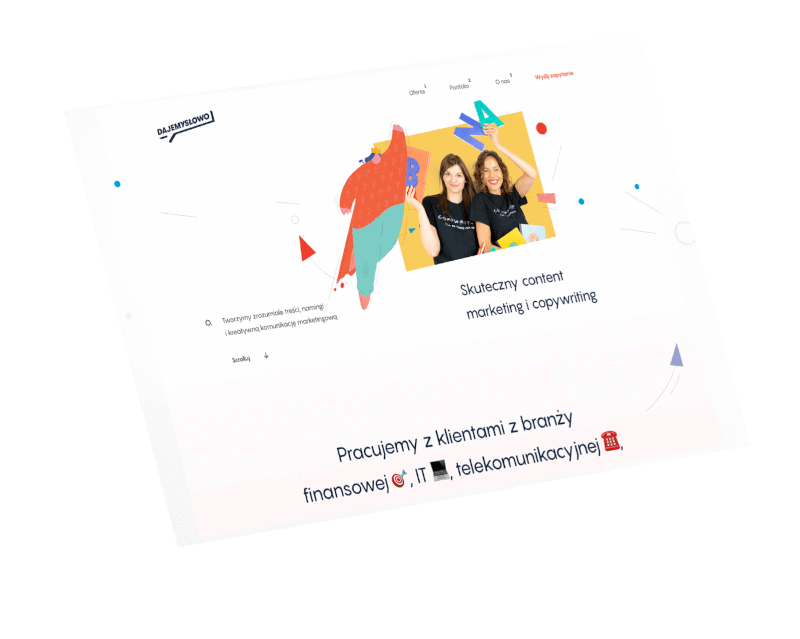
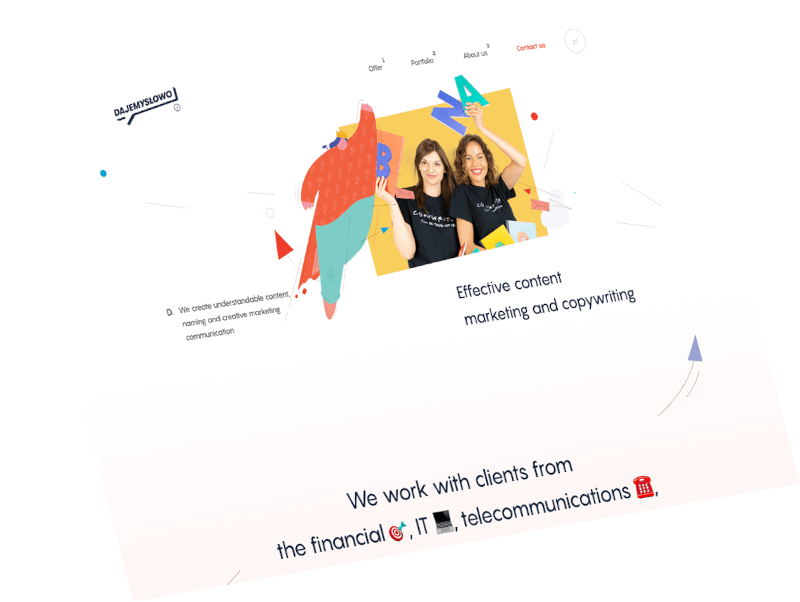
Change home jamstack img to english and og:image to new

diff --git a/_includes/head.html b/_includes/head.html
@@ -12,7 +12,7 @@
   <meta name="google-site-verification" content="hN08h2wKl7pGAbXTpkyglvv4VdgIBfm5TAGozNPUhJM" />
   <meta property="og:title"  content="{% if page.title %}{{ page.title }}{% else %}{{ site.title }}{% endif %}" >
   <meta property="og:description"  content="{% if page.description %}{{ page.description }}{% else %}{{ site.description }}{% endif %}" >
-  <meta property="og:image" content="{% if page.image %}{{ site.url }}{{ page.image }}{% else %}{{ site.url }}/assets/images/ogfacebook.png{% endif %}">
+  <meta property="og:image" content="{% if page.image %}{{ site.url }}{{ page.image }}{% else %}{{ site.url }}/assets/images/ogfacebook.jpg{% endif %}">
   <meta property="og:url" content="{% if page.permalink %}{{ page.permalink }}{% else %}{{ site.url }}{% endif %}">
   {% if paginator.previous_page %}
     <meta property="og:type" content="website">
@@ -24,7 +24,7 @@
 
   <meta name="twitter:title" content="{% if page.title %}{{ page.title }}{% else %}{{ site.title }}{% endif %}"/>
   <meta name="twitter:description" content="{% if page.description %}{{ page.description }}{% else %}{{ site.description }}{% endif %}"/>
-  <meta name="twitter:image" content="{% if page.image %}{{ site.url }}{{ page.image }}{% else %}{{ site.url }}/assets/images/ogfacebook.png{% endif %}"/>
+  <meta name="twitter:image" content="{% if page.image %}{{ site.url }}{{ page.image }}{% else %}{{ site.url }}/assets/images/ogfacebook.jpg{% endif %}"/>
   <meta name="twitter:card" content="{% if page.twitter-card %}{{ page.twitter-card }}{% else %}summary{% endif %}"/>
   <meta name="twitter:site" content="@naturailycom"/>
[1 lines of base64/hex data omitted]
